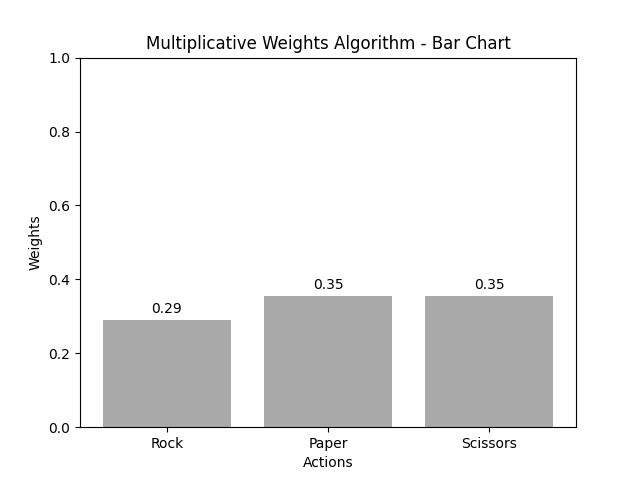
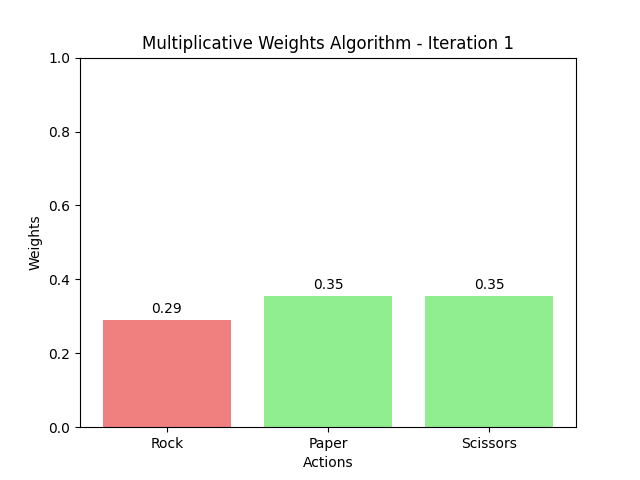
more charts correctly

diff --git a/mwa.py b/mwa.py
@@ -50,7 +50,7 @@ def plot_bar_chart(weights, iteration, prev_weights):
     plt.ylim(0, 1)
     for i, value in enumerate(weights):
         plt.text(i, value + 0.01, f"{value:.2f}", ha="center", va="bottom")
-    plt.title("Multiplicative Weights Algorithm - Bar Chart")
+    plt.title("Multiplicative Weights Algorithm - Iteration " + str(iteration))
     plt.xlabel("Actions")
     plt.ylabel("Weights")
     plt.savefig(f"./mwa-bar-charts/bar_chart_{iteration}.png")
@@ -80,7 +80,9 @@ def main():
 
     for i in range(num_iterations):
         computer_action = "paper" if i % 3 < 2 else "scissors"
-        player_action = random.choices(["rock", "paper", "scissors"], weights)[0]
+        # Have player choose action based on what is weighted more heavily
+        player_action = actions[weights.index(max(weights))]
+        # player_action = random.choices(["rock", "paper", "scissors"], weights)[0]
         print(
             f"Iteration {i} - Weights (rock, paper, scissors) = {list(map(lambda x: round(x, 2), weights))}, player = {player_action}, computer = {computer_action}"
         )
@@ -92,14 +94,14 @@ def main():
         # Record weights for line chart
         weights_history.append(weights.copy())
 
+        # Plot and save bar chart every iteration
+        prev_weights = weights_history[i]
+        plot_bar_chart(weights, i + 1, prev_weights)
+
         if i == num_iterations - 1:
             print(
-                f"Iteration {i} - Weights (rock, paper, scissors) = {list(map(lambda x: round(x, 2), weights))}"
+                f"Iteration {i + 1} - Weights (rock, paper, scissors) = {list(map(lambda x: round(x, 2), weights))}"
             )
-
-        # Plot and save bar chart every iteration
-        prev_weights = weights_history[i - 1]
-        plot_bar_chart(weights, i + 1, prev_weights)
 
     # Plot line chart after all iterations
     plot_line_chart(weights_history)
